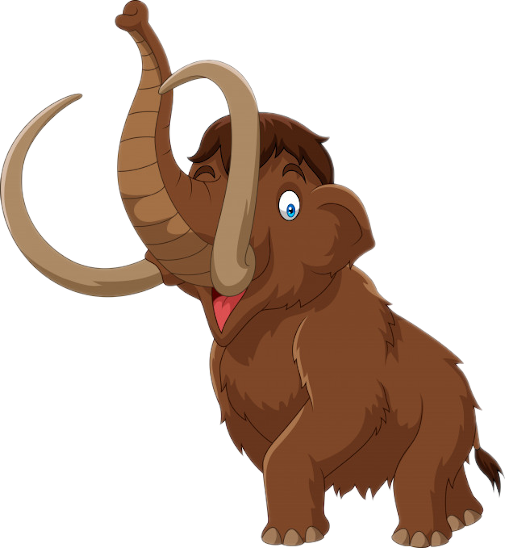
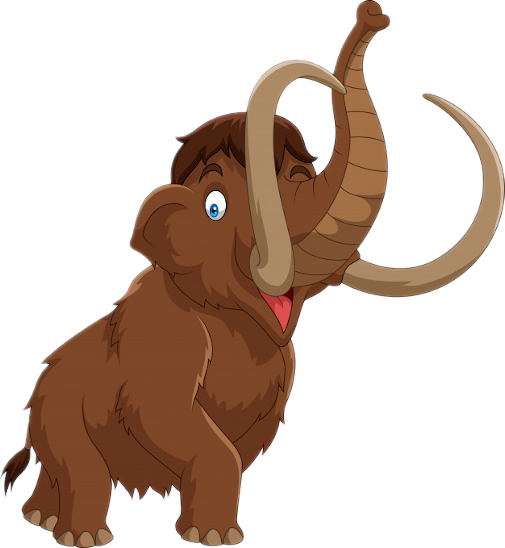
quizprops animating

diff --git a/src/components/Quiz/Quiz.js b/src/components/Quiz/Quiz.js
@@ -1,13 +1,11 @@
 import React, {useState} from 'react';
 import "./Quiz.scss";
-import YouTube from 'react-youtube';
 import {AnimatePresence, motion} from "framer-motion";
-import wallPainting from "./../../assets/images/wallPainting.jpeg";
 import bigFrameBorder from "./../../assets/images/bigFrame.png";
-import scoreBoard from "./../../assets/images/smallFrame.png";
-import mammoth from "./../../assets/images/mammoth.png";
 import Ribbon from "./Ribbon/Ribbon";
 import QuizIntroText from "./QuizIntroText";
+import Scoreboard from "./Scoreboard/Scoreboard";
+import Mammoth from "./Mammoth/Mammoth";
 
 
 const Quiz = () => {
@@ -31,7 +29,9 @@ const Quiz = () => {
         setShowText(true);
     }
 
-    const prepareForQuiz = () => {}
+    const prepareForQuiz = () => {
+        setShowQuizProps(true);
+    }
 
     const variants = {
         hide: { opacity: 0, transition: { duration: 4 } },
@@ -51,6 +51,8 @@ const Quiz = () => {
             <div className="bigFrameContent">
                 <AnimatePresence onExitComplete={onYtIntroExitComplete}>
                     { showYtIntro && (
+                        (<><Scoreboard/><Mammoth/></>)/*
+                        /*
                         <motion.div className="ytIntro" exit={{ opacity: 0, duration: 2 }}>
                             <div className="modalBg" />
                             <YouTube
@@ -64,15 +66,16 @@ const Quiz = () => {
                                 animate={showWallPainting ? 'show' : 'hide'}
                                 src={wallPainting}
                             />
-                        </motion.div>
+                        </motion.div>*/
                     )}
                 </AnimatePresence>
+
                 <AnimatePresence onExitComplete={prepareForQuiz}>
-                    {showText && (
-                        <motion.div exit={{ opacity: 0, duration: 2 }}>
-                            <QuizIntroText setShowText={setShowText}/>
-                        </motion.div>
-                    )}
+                    {showText && (<QuizIntroText setShowText={setShowText}/>)}
+                </AnimatePresence>
+
+                <AnimatePresence>
+                    {showQuizProps && (<><Scoreboard/><Mammoth/></>)}
                 </AnimatePresence>
 
                 <motion.div className="quizQuestions">

diff --git a/src/components/Quiz/QuizIntroText.js b/src/components/Quiz/QuizIntroText.js
@@ -18,7 +18,7 @@ const QuizIntroText = ({setShowText}) => {
     const introText = "Hallo iedereen, welkom op de grote Mammoetquiz van het Vleeshuismuseum. Deze quiz gaat over de mammoet en de tijd waarin de mammoet leefde. Willen jullie een leuke en spannende quiz spelen? Druk op de knop om te starten!"
 
     return (
-        <motion.div className="textIntro">
+        <motion.div className="textIntro" exit={{ opacity: 0, duration: 5 }}>
             <Typewriter
                 options={{
                     delay: 65,
@@ -31,9 +31,9 @@ const QuizIntroText = ({setShowText}) => {
 
             {showButton && (
                 <motion.div
-                    initial={{opacity: 0,  y: 200}}
+                    initial={{opacity: 0,  y: 250}}
                     animate={{opacity: 1,  y: 0}}
-                    transition={{duration: 1}}
+                    transition={{duration: 0.7, type: "spring"}}
                 >
                     <Button text="START" type="stone" clickEvent={btnClicked}/>
                 </motion.div>

diff --git a/src/components/Quiz/Mammoth/Mammoth.js b/src/components/Quiz/Mammoth/Mammoth.js
@@ -1,16 +1,27 @@
 import React from 'react';
-import {AnimatePresence, motion} from "framer-motion";
+import {motion} from "framer-motion";
 import mammoth from "../../../assets/images/mammoth.png";
+import "./Mammoth.scss";
 
 const Mammoth = () => {
+
+    const spring = {
+        type: "spring",
+        stiffness: 700,
+        damping: 30,
+        transition: { duration: 2300 }
+    };
+
     return (
-        <div>
-            <AnimatePresence>
-                <motion.div>
-                    <img src={mammoth}/>
-                </motion.div>
-            </AnimatePresence>
-        </div>
+        <motion.div
+            className="mammoth quizProps"
+            initial={{opacity: 0, x: -400 }}
+            animate={{opacity: 1, x:0 }}
+            transition={{duration: 5.7, type: "spring"}}
+            >
+                <img src={mammoth}/>
+                <div className="eyeBlink"/>
+        </motion.div>
     );
 };
 

diff --git a/src/components/Quiz/Scoreboard/Scoreboard.js b/src/components/Quiz/Scoreboard/Scoreboard.js
@@ -1,11 +1,26 @@
 import React from 'react';
 import {motion} from "framer-motion";
-import scoreBoard from "../../../assets/images/smallFrame.png";
+import "./Scoreboard.scss";
+import comet from "../../../assets/images/comet.png";
 
 const Scoreboard = () => {
+
+    const spring = {
+        type: "spring",
+        stiffness: 700,
+        damping: 30,
+        transition: { duration: 4300 }
+    };
+
     return (
-        <motion.div>
-            <img src={scoreBoard}/>
+        <motion.div
+            className="scoreboard quizProps"
+            initial={{scale: 0}}
+            animate={{scale: 1}}
+            transition={{duration: 5.7, type: "spring"}}
+        >
+            <h2>Scoreboard</h2>
+            <img src={comet}/>
         </motion.div>
     );
 };

diff --git a/src/components/Quiz/Mammoth/Mammoth.scss b/src/components/Quiz/Mammoth/Mammoth.scss
@@ -1,0 +1,29 @@
+.mammoth{
+  transform: scaleX(-1);
+  width: 500px;
+  left: 70px;
+  top: 70px;
+
+  img{
+    width: 100%;
+    height: 100%;
+    filter: drop-shadow(0px 0px 5px rgb(0, 0, 0, 0.5));
+  }
+}
+
+.eyeBlink{
+  position: absolute;
+  background: #68341c;
+  width: 22px;
+  height: 2px;
+  left: 233px;
+  top: 250px;
+  border-radius: 60%;
+  animation-name: eyeBlink;
+  animation-duration: 4s;
+  animation-iteration-count: infinite;
+  animation-timing-function: ease-in-out;
+  z-index: 999;
+  display: none;
+
+}

diff --git a/src/components/Quiz/Scoreboard/Scoreboard.scss b/src/components/Quiz/Scoreboard/Scoreboard.scss
@@ -1,0 +1,13 @@
+.scoreboard{
+  position: absolute;
+  padding: 50px 70px;
+  width: 220px;
+  height: 260px;
+  background-image: url(../../../assets/images/smallFrame.png);
+  background-repeat: no-repeat;
+  background-position-y: -5px;
+  filter: drop-shadow(4px 4px 8px rgba(0, 0, 0, 0.5));
+  right: 90px;
+  top: 70px;
+  background-size: contain;
+}

diff --git a/src/components/Quiz/Quiz.scss b/src/components/Quiz/Quiz.scss
@@ -19,6 +19,7 @@
   display: flex;
   justify-content: center;
   grid-area: inner-div;
+  position: relative;
 }
 
 .bigFrameContent::before {
@@ -72,4 +73,8 @@
   align-items: center;
   gap: 55px;
   box-sizing: border-box;
+}
+
+.quizProps{
+  position: absolute;
 }

diff --git a/src/App.scss b/src/App.scss
@@ -130,3 +130,9 @@ body{
   90% { transform: translateX(-5px)}
   100% { transform: translateX(5px)}
 }
+
+@keyframes eyeBlink{
+  0%  {height: 2px}
+  7% { height: 32px}
+  14% { height: 2px}
+}
